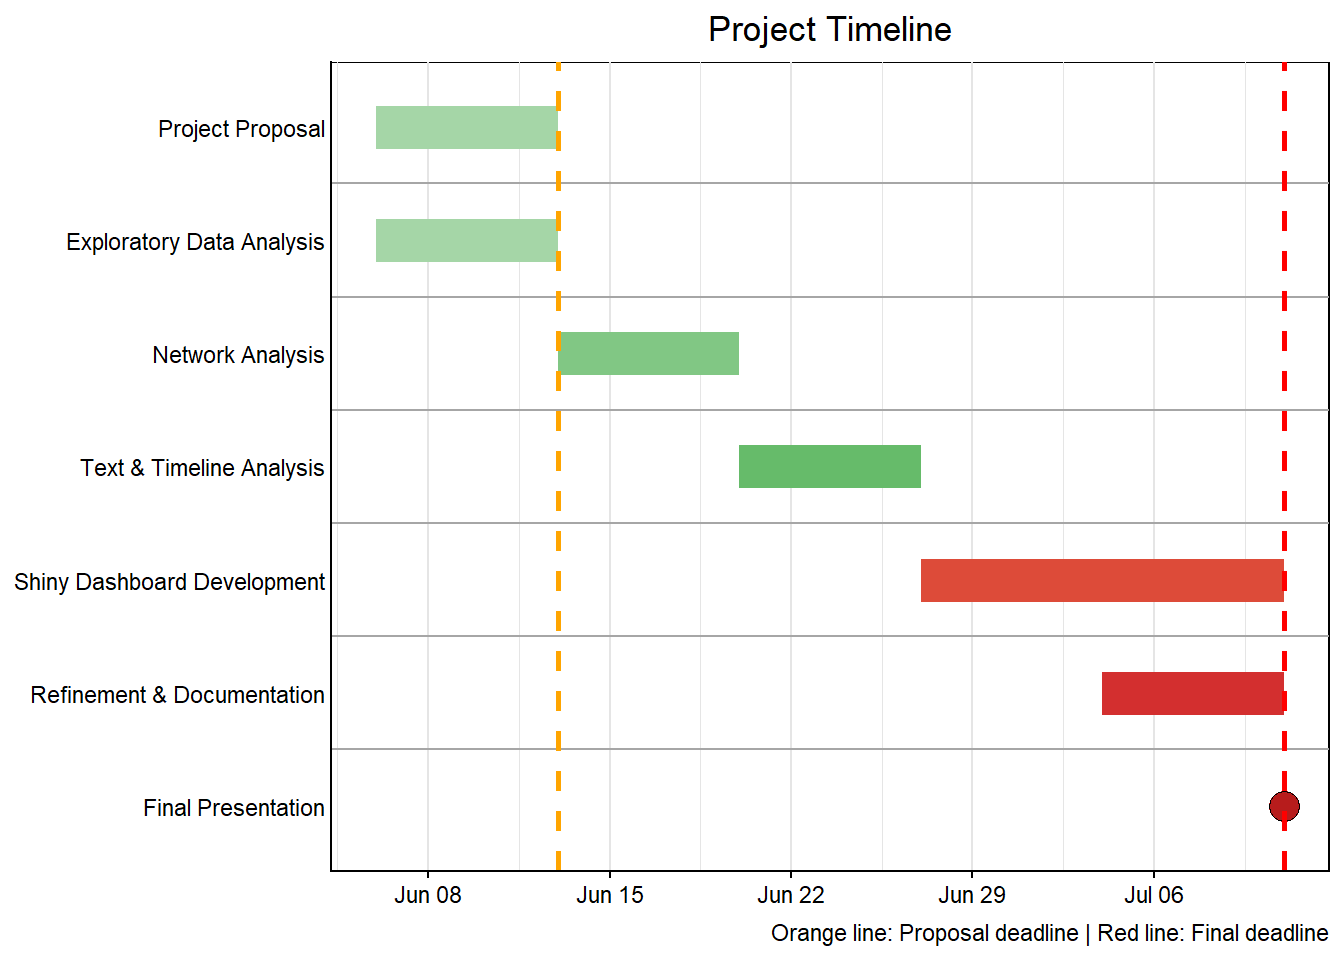
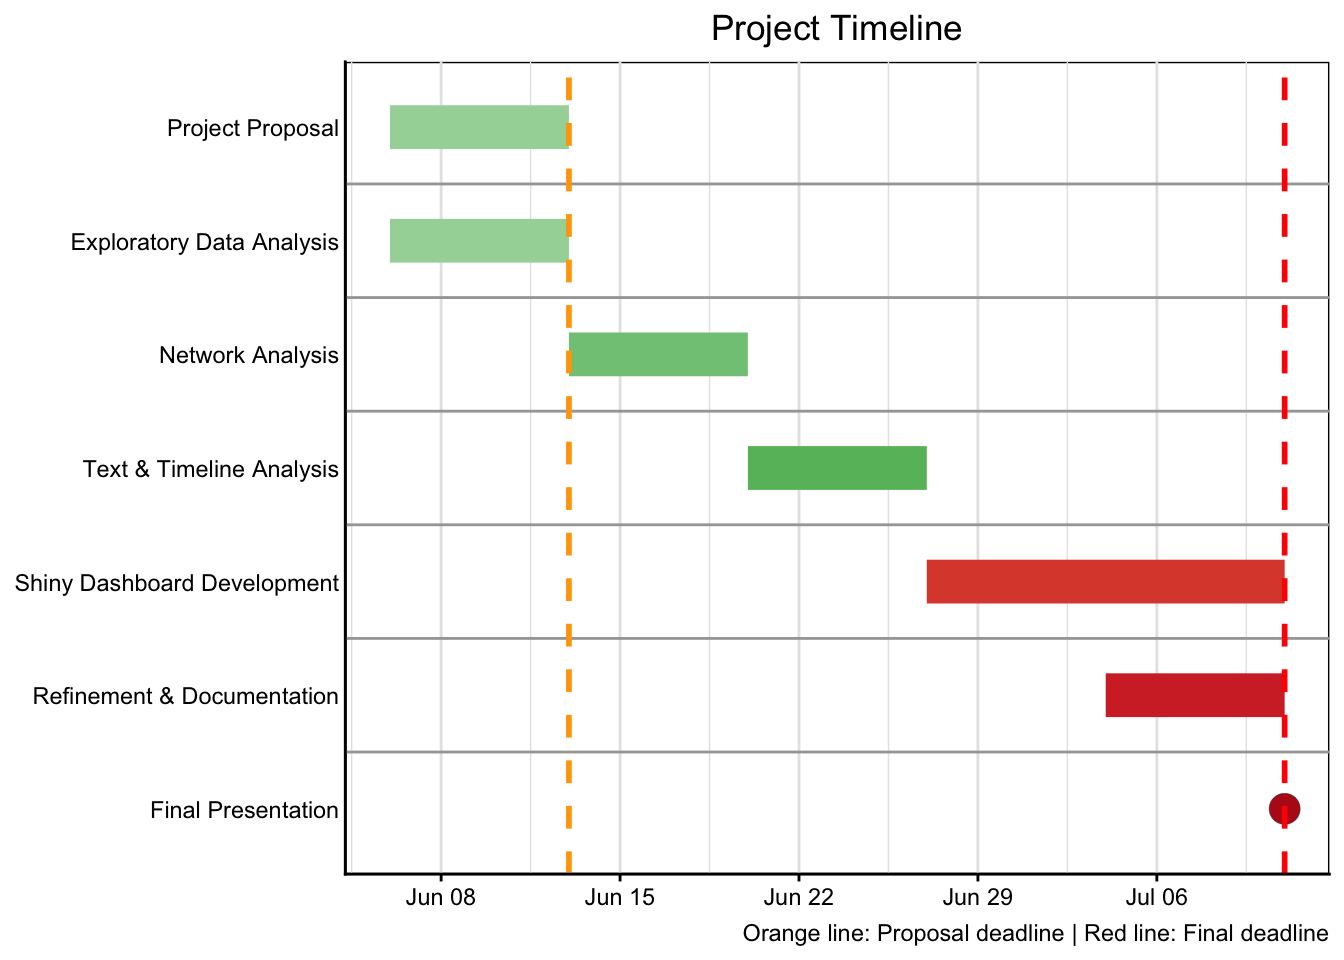
update

diff --git a/_site/Group_Project/proposal.html b/_site/Group_Project/proposal.html
@@ -7,7 +7,7 @@
 <meta name="viewport" content="width=device-width, initial-scale=1.0, user-scalable=yes">
 
 <meta name="author" content="Group Members: BUI Tien Thanh, HU Yue, WU Jiayan">
-<meta name="dcterms.date" content="2026-06-06">
+<meta name="dcterms.date" content="2026-06-07">
 
 <title>Group Project Proposal: VAST Challenge 2026 MC1 – ISSS608-VAA</title>
 <style>
@@ -44,7 +44,7 @@ ul.task-list li input[type="checkbox"] {
 <link href="../site_libs/quarto-html/quarto-syntax-highlighting-7f8f88aac4f3542376d5c11b86a4c14d.css" rel="stylesheet" id="quarto-text-highlighting-styles">
 <script src="../site_libs/bootstrap/bootstrap.min.js"></script>
 <link href="../site_libs/bootstrap/bootstrap-icons.css" rel="stylesheet">
-<link href="../site_libs/bootstrap/bootstrap-a0f9fd0d421825b736dc1bbcbcba2219.min.css" rel="stylesheet" append-hash="true" id="quarto-bootstrap" data-mode="light">
+<link href="../site_libs/bootstrap/bootstrap-158031087360bce0ff56dc785ce39e06.min.css" rel="stylesheet" append-hash="true" id="quarto-bootstrap" data-mode="light">
 <script id="quarto-search-options" type="application/json">{
   "location": "navbar",
   "copy-button": false,
@@ -148,13 +148,10 @@ ul.task-list li input[type="checkbox"] {
   <ul class="collapse">
   <li><a href="#shiny-app-design" id="toc-shiny-app-design" class="nav-link" data-scroll-target="#shiny-app-design"><span class="header-section-number">6.1</span> Shiny App Design</a>
   <ul class="collapse">
-  <li><a href="#tab-1-proposal" id="toc-tab-1-proposal" class="nav-link" data-scroll-target="#tab-1-proposal"><span class="header-section-number">6.1.1</span> Tab 1: Proposal</a></li>
-  <li><a href="#tab-2-overview-dashboard" id="toc-tab-2-overview-dashboard" class="nav-link" data-scroll-target="#tab-2-overview-dashboard"><span class="header-section-number">6.1.2</span> Tab 2: Overview Dashboard</a></li>
-  <li><a href="#tab-3-network-analysis" id="toc-tab-3-network-analysis" class="nav-link" data-scroll-target="#tab-3-network-analysis"><span class="header-section-number">6.1.3</span> Tab 3: Network Analysis</a></li>
-  <li><a href="#tab-4-timeline-explorer" id="toc-tab-4-timeline-explorer" class="nav-link" data-scroll-target="#tab-4-timeline-explorer"><span class="header-section-number">6.1.4</span> Tab 4: Timeline Explorer</a></li>
-  <li><a href="#tab-5-text-analysis" id="toc-tab-5-text-analysis" class="nav-link" data-scroll-target="#tab-5-text-analysis"><span class="header-section-number">6.1.5</span> Tab 5: Text Analysis</a></li>
-  <li><a href="#tab-6-agent-deep-dive" id="toc-tab-6-agent-deep-dive" class="nav-link" data-scroll-target="#tab-6-agent-deep-dive"><span class="header-section-number">6.1.6</span> Tab 6: Agent Deep Dive</a></li>
-  <li><a href="#tab-7-competing-hypotheses" id="toc-tab-7-competing-hypotheses" class="nav-link" data-scroll-target="#tab-7-competing-hypotheses"><span class="header-section-number">6.1.7</span> Tab 7: Competing Hypotheses</a></li>
+  <li><a href="#tab-1-overview" id="toc-tab-1-overview" class="nav-link" data-scroll-target="#tab-1-overview"><span class="header-section-number">6.1.1</span> Tab 1: Overview</a></li>
+  <li><a href="#tab-2-timeline-slack-leak" id="toc-tab-2-timeline-slack-leak" class="nav-link" data-scroll-target="#tab-2-timeline-slack-leak"><span class="header-section-number">6.1.2</span> Tab 2: Timeline &amp; Slack Leak</a></li>
+  <li><a href="#tab-3-agent-communication-flow" id="toc-tab-3-agent-communication-flow" class="nav-link" data-scroll-target="#tab-3-agent-communication-flow"><span class="header-section-number">6.1.3</span> Tab 3: Agent &amp; Communication Flow</a></li>
+  <li><a href="#tab-4-evidence-judgment" id="toc-tab-4-evidence-judgment" class="nav-link" data-scroll-target="#tab-4-evidence-judgment"><span class="header-section-number">6.1.4</span> Tab 4: Evidence &amp; Judgment</a></li>
   </ul></li>
   </ul></li>
   <li><a href="#r-packages" id="toc-r-packages" class="nav-link" data-scroll-target="#r-packages"><span class="header-section-number">7</span> R Packages</a>
@@ -196,7 +193,7 @@ ul.task-list li input[type="checkbox"] {
     <div>
     <div class="quarto-title-meta-heading">Published</div>
     <div class="quarto-title-meta-contents">
-      <p class="date">June 6, 2026</p>
+      <p class="date">June 7, 2026</p>
     </div>
   </div>
   
@@ -532,78 +529,51 @@ Figure&nbsp;1: Analytical Pipeline
 <h1 data-number="6"><span class="header-section-number">6</span> Prototype Sketches</h1>
 <section id="shiny-app-design" class="level2" data-number="6.1">
 <h2 data-number="6.1" class="anchored" data-anchor-id="shiny-app-design"><span class="header-section-number">6.1</span> Shiny App Design</h2>
-<p>The interactive dashboard will have a multi-tab structure to support different investigative perspectives:</p>
-<section id="tab-1-proposal" class="level3" data-number="6.1.1">
-<h3 data-number="6.1.1" class="anchored" data-anchor-id="tab-1-proposal"><span class="header-section-number">6.1.1</span> Tab 1: Proposal</h3>
+<p>The proposed Shiny app is designed as an interactive dashboard for investigating whether the TenantThread merger exposure was a deliberate leak or a system-control failure. The prototype contains four main tabs:</p>
+<div class="cell" data-layout-align="center">
+<div class="cell-output-display">
+<div id="fig-shiny-prototype" class="quarto-float quarto-figure quarto-figure-center anchored" data-fig-align="center">
+<figure class="quarto-float quarto-float-fig figure">
+<div aria-describedby="fig-shiny-prototype-caption-0ceaefa1-69ba-4598-a22c-09a6ac19f8ca">
+<img src="./image.jpg" class="img-fluid quarto-figure quarto-figure-center figure-img" style="width:90.0%">
+</div>
+<figcaption class="quarto-float-caption-bottom quarto-float-caption quarto-float-fig" id="fig-shiny-prototype-caption-0ceaefa1-69ba-4598-a22c-09a6ac19f8ca">
+Figure&nbsp;2: Low-fidelity Shiny App prototype design.
+</figcaption>
+</figure>
+</div>
+</div>
+</div>
+<section id="tab-1-overview" class="level3" data-number="6.1.1">
+<h3 data-number="6.1.1" class="anchored" data-anchor-id="tab-1-overview"><span class="header-section-number">6.1.1</span> Tab 1: Overview</h3>
 <ul>
-<li>Project background and research question</li>
-<li>Analytical framework overview</li>
-<li>Team information</li>
+<li>Provides a high-level summary of the crisis.</li>
+<li>Shows key indicators such as total messages, merger-related messages, leak/exposure signals, and pre-embargo public exposure.</li>
+<li>Presents the final interpretation: internal confidentiality leak enabled by system-level control failure.</li>
 </ul>
 </section>
-<section id="tab-2-overview-dashboard" class="level3" data-number="6.1.2">
-<h3 data-number="6.1.2" class="anchored" data-anchor-id="tab-2-overview-dashboard"><span class="header-section-number">6.1.2</span> Tab 2: Overview Dashboard</h3>
+<section id="tab-2-timeline-slack-leak" class="level3" data-number="6.1.2">
+<h3 data-number="6.1.2" class="anchored" data-anchor-id="tab-2-timeline-slack-leak"><span class="header-section-number">6.1.2</span> Tab 2: Timeline &amp; Slack Leak</h3>
 <ul>
-<li><strong>Key Metrics Panel</strong>: Total messages, agents involved, time period</li>
-<li><strong>Breach Timeline</strong>: Visual timeline showing critical events on June 5</li>
-<li><strong>Agent Activity Summary</strong>: Bar chart of communication volume by agent and period</li>
-<li><strong>Channel Distribution</strong>: Pie/bar chart showing channel usage patterns</li>
+<li>Focuses on how the crisis developed over time.</li>
+<li>Displays communication volume, pressure signal heatmap, and the Slack screenshot escalation timeline.</li>
+<li>Highlights the turning point from market inference to direct internal leakage.</li>
 </ul>
 </section>
-<section id="tab-3-network-analysis" class="level3" data-number="6.1.3">
-<h3 data-number="6.1.3" class="anchored" data-anchor-id="tab-3-network-analysis"><span class="header-section-number">6.1.3</span> Tab 3: Network Analysis</h3>
+<section id="tab-3-agent-communication-flow" class="level3" data-number="6.1.3">
+<h3 data-number="6.1.3" class="anchored" data-anchor-id="tab-3-agent-communication-flow"><span class="header-section-number">6.1.3</span> Tab 3: Agent &amp; Communication Flow</h3>
 <ul>
-<li><strong>Period Selector</strong>: Dropdown to choose Baseline, Final Week, Breach Day, or Breach Window</li>
-<li><strong>Interactive Network Graph</strong>: visNetwork visualization with:
-<ul>
-<li>Nodes sized by centrality</li>
-<li>Edges weighted by interaction frequency</li>
-<li>Color-coded by agent role</li>
-<li>Click for agent details</li>
-</ul></li>
-<li><strong>Centrality Metrics Table</strong>: Sortable table showing degree, betweenness, closeness</li>
-<li><strong>Network Evolution</strong>: Side-by-side comparison of network structure across periods</li>
+<li>Shows which agents were most involved in the communication and pressure patterns.</li>
+<li>Includes agent-level pressure exposure and communication-flow visuals.</li>
+<li>Helps users understand why the system failed to contain sensitive information.</li>
 </ul>
 </section>
-<section id="tab-4-timeline-explorer" class="level3" data-number="6.1.4">
-<h3 data-number="6.1.4" class="anchored" data-anchor-id="tab-4-timeline-explorer"><span class="header-section-number">6.1.4</span> Tab 4: Timeline Explorer</h3>
+<section id="tab-4-evidence-judgment" class="level3" data-number="6.1.4">
+<h3 data-number="6.1.4" class="anchored" data-anchor-id="tab-4-evidence-judgment"><span class="header-section-number">6.1.4</span> Tab 4: Evidence &amp; Judgment</h3>
 <ul>
-<li><strong>Time Range Slider</strong>: Focus on specific hours/days</li>
-<li><strong>Event Sequence Visualization</strong>: Gantt-style timeline showing:
-<ul>
-<li>Agent activities</li>
-<li>Critical events marked</li>
-<li>Breach window highlighted (4-6 PM)</li>
-</ul></li>
-<li><strong>Message Inspector</strong>: Click on timeline events to view message details</li>
-<li><strong>Channel Filter</strong>: Filter by communication channel</li>
-</ul>
-</section>
-<section id="tab-5-text-analysis" class="level3" data-number="6.1.5">
-<h3 data-number="6.1.5" class="anchored" data-anchor-id="tab-5-text-analysis"><span class="header-section-number">6.1.5</span> Tab 5: Text Analysis</h3>
-<ul>
-<li><strong>TF-IDF Visualization</strong>: Bar charts of distinctive terms by period/agent</li>
-<li><strong>Word Cloud</strong>: Interactive word cloud with period filtering</li>
-<li><strong>Action Keywords</strong>: Time series of action-related terms (post, publish, escalate)</li>
-<li><strong>Message Search</strong>: Text search with context display</li>
-</ul>
-</section>
-<section id="tab-6-agent-deep-dive" class="level3" data-number="6.1.6">
-<h3 data-number="6.1.6" class="anchored" data-anchor-id="tab-6-agent-deep-dive"><span class="header-section-number">6.1.6</span> Tab 6: Agent Deep Dive</h3>
-<ul>
-<li><strong>Agent Selector</strong>: Dropdown to choose specific agent</li>
-<li><strong>Activity Profile</strong>: Message volume, average length, channels used</li>
-<li><strong>Network Position</strong>: Centrality metrics and key connections</li>
-<li><strong>Distinctive Vocabulary</strong>: TF-IDF terms for selected agent</li>
-<li><strong>Internal States</strong>: Display sparse internal state records if available</li>
-</ul>
-</section>
-<section id="tab-7-competing-hypotheses" class="level3" data-number="6.1.7">
-<h3 data-number="6.1.7" class="anchored" data-anchor-id="tab-7-competing-hypotheses"><span class="header-section-number">6.1.7</span> Tab 7: Competing Hypotheses</h3>
-<ul>
-<li><strong>Evidence Table</strong>: Structured table showing evidence for/against each hypothesis</li>
-<li><strong>Signal Dashboard</strong>: Visual indicators of deliberate vs.&nbsp;breakdown patterns</li>
-<li><strong>Critical Decision Points</strong>: Timeline of key decisions with annotations</li>
+<li>Summarises the final evidence used to classify the incident.</li>
+<li>Displays the evidence interpretation matrix comparing internal leak, system breakdown, and senior-orchestrated leak.</li>
+<li>Provides the final judgment that the incident was an internal leak amplified by weak multi-agent controls, not a proven senior-level deliberate leak.</li>
 </ul>
 </section>
 </section>
